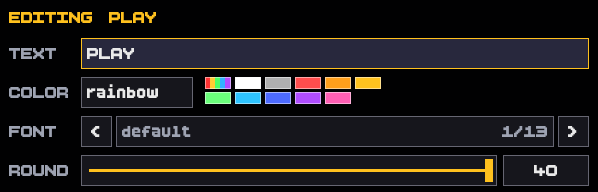
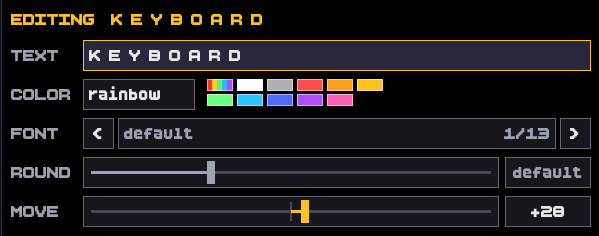
button update p.2

diff --git a/README.md b/README.md
@@ -10,6 +10,10 @@ Run it as-is (`love .`) to see a tiny demo: scroll a black-and-grey checkerboard
 | :---: | :---: | :---: |
 | ![F11 font editor showing the new font families](reference_screenshots/ui_editor_font_editor.png) | ![Rounded buttons in the game](reference_screenshots/ui_editor_button_roundness_update_1.png) | ![F11 editor panel with the ROUND corner-radius slider](reference_screenshots/ui_editor_button_roundness_update_2.png) |
 
+| Button Mover (MOVE slider, buttons slid along the center axis) | Button Mover (MOVE slider in the F11 editor) |
+| :---: | :---: |
+| ![Menu buttons repositioned with the MOVE slider](reference_screenshots/ui_editor_button_mover_1.png) | ![F11 editor panel with the MOVE slider under ROUND](reference_screenshots/ui_editor_button_mover_2.png) |
+
 | Live F11 UI Editor (with F1 help panel) | Live F11 UI Editor (editing text and color) |
 | :---: | :---: |
 | ![F11 UI editor open, F1 help panel on the right](reference_screenshots/ui_editor_open.png) | ![F11 UI editor open, editing a widget](reference_screenshots/ui_editor_open_2.png) |
@@ -32,7 +36,7 @@ Run it as-is (`love .`) to see a tiny demo: scroll a black-and-grey checkerboard
 
 ## Edit every menu, export in one keypress
 
-Run `love . --sandbox`, press **F11**, click any title, button or hint on **any** screen, and type. Main menu, pause menu, HUD, Settings, Keyboard, Controller, Other, Textures and the loading screen are all editable (text and color). Then export:
+Run `love . --sandbox`, press **F11**, click any title, button or hint on **any** screen, and type. Main menu, pause menu, HUD, Settings, Keyboard, Controller, Other, Textures and the loading screen are all editable: text, color, font, corner **roundness** and **position**. Then export:
 
 | Key | Does | Works |
 | --- | --- | --- |
@@ -44,6 +48,12 @@ Run `love . --sandbox`, press **F11**, click any title, button or hint on **any*
 * The menu background is exported as `ui/menu_background.lua`, so the picture you see in the sandbox is the picture plain `love .` shows. `return nil` in that file turns it off, and `config.menuBackground` overrides it.
 * If anything goes wrong, `ultimate_ui_export_log.txt` in the save folder (F9) records exactly what was tried and why it failed.
 
+### Roundness and moving things
+
+* **ROUND** is a slider (0 to 40) for a button's corner radius. Buttons ship at **12**; drag to 0 for square corners. Set the project-wide default with `buttonRadius` in `ultimate_ui/config.lua`.
+* **MOVE** is a slider under ROUND (Tab reaches it) that slides the selected **button, row, title or hint** up or down along its center axis, from -400 to +400 in 1080p pixels, with 0 in the middle. X stays locked to the center, and the text, hit-box and pop-in move together with the box. Use Up/Down (Shift = 10) for fine steps; Backspace or clicking the number resets it. Works on every page: main, pause, Settings, Keyboard, Controller, Other, Textures and Loading, plus the HUD title. Moving a title does not drag its subtitle with it.
+* The position is saved as `dy` on the element and exported with the page (`ui/main_menu.lua`, `ui/pause_menu.lua`, `ui/hud_screen.lua`, or `ui/page_texts.lua` for the hand-coded pages).
+
 ## F1 Helper Menu: Feature Stack
 
 Run the template with `love . --sandbox` and press **F1** (or the backtick key) at any time, on any screen, in the menus or in the game. A live helper panel opens in the top-right corner, and a status strip sits in the bottom-left corner showing the current screen, window size and active modes, with a reminder of `F1 = help | F11 = edit`.
@@ -54,8 +64,8 @@ The panel is a cheat sheet and a live readout in one:
 | --- | --- |
 | **State** | Current screen, menu cursor row, whether a rebind is waiting, window size and UI scale, active texture filter and CRT filter, connected gamepads, mouse position, FPS, and how many `.lua` files auto-reload is watching |
 | **Jump to screen** | With the panel open, press `1`-`8` to go straight to Main, Pause, Settings, Keyboard, Controller, Other, Texture, or back into the Game, with no clicking through menus |
-| **Hotkeys** | `F2` window size presets, `F3` virtual gamepad, `F4` event log, `F5` restart, `F6` auto-reload, `F7` loading-screen preview, `F8` wipe saves (press twice), `F9` open the save folder, `F10` hide the overlay, `F12` clean screenshot |
-| **Editor** | `F11` edit mode, `B` background, `[` `]` blur, `-` `=` dim, `Shift+F` one font for everything. Click a button and the editor panel has a TEXT, COLOR, FONT and **ROUND** (corner radius) row. `Ctrl+E` exports the current page and `Ctrl+Shift+E` exports all pages, **with edit mode on or off**. Every page's titles and buttons are editable; Settings / Keyboard / Controller / Other / Textures / Loading export to `ui/page_texts.lua`, the shared background to `ui/menu_background.lua`, and the all-fonts choice to `ui/all_fonts.lua` |
+| **Hotkeys** | `F2` window size presets, `F3` virtual gamepad, `F4` event log, `F5` restart, `F6` auto-reload, `F7` loading-screen preview, `F8` reset everything (press twice): wipes saved settings **and all F11 editor edits**, then restarts at the placeholder defaults; `exports/` is never touched, `F9` open the save folder, `F10` hide the overlay, `F12` clean screenshot |
+| **Editor** | `F11` edit mode, `B` background, `[` `]` blur, `-` `=` dim, `Shift+F` one font for everything. Click a button and the editor panel has a TEXT, COLOR, FONT, **ROUND** (corner radius) and **MOVE** (vertical position) row. `Ctrl+E` exports the current page and `Ctrl+Shift+E` exports all pages, **with edit mode on or off**. Every page's titles and buttons are editable; Settings / Keyboard / Controller / Other / Textures / Loading export to `ui/page_texts.lua`, the shared background to `ui/menu_background.lua`, and the all-fonts choice to `ui/all_fonts.lua` |
 
 A few notes:
 
